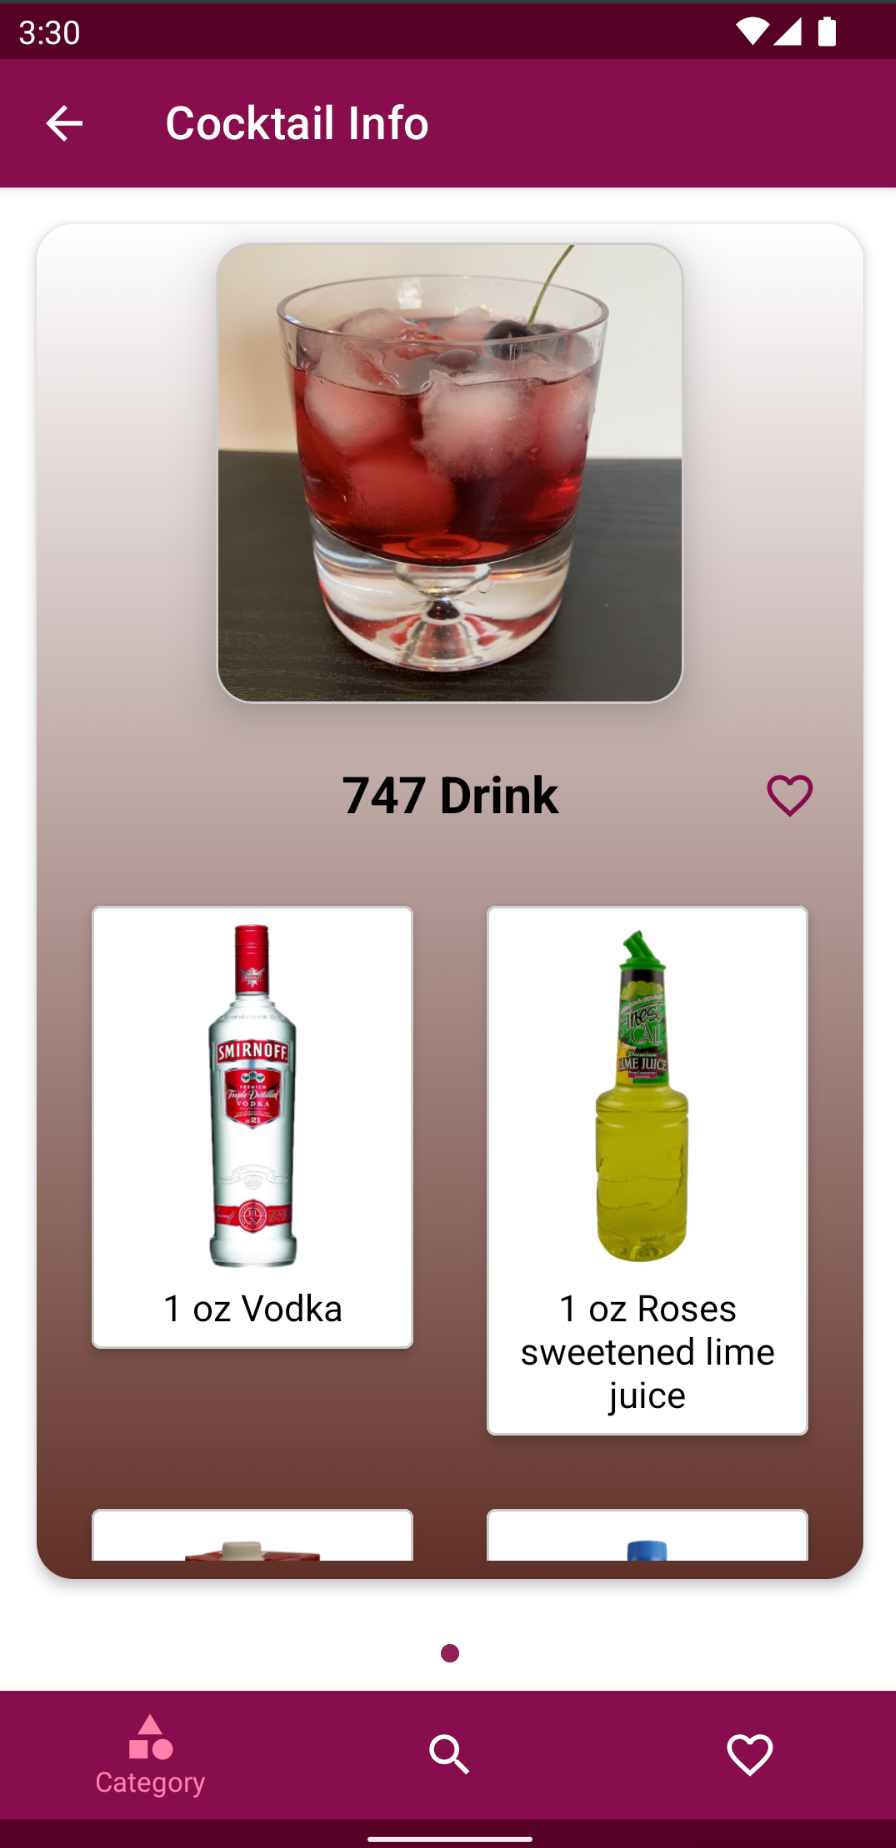
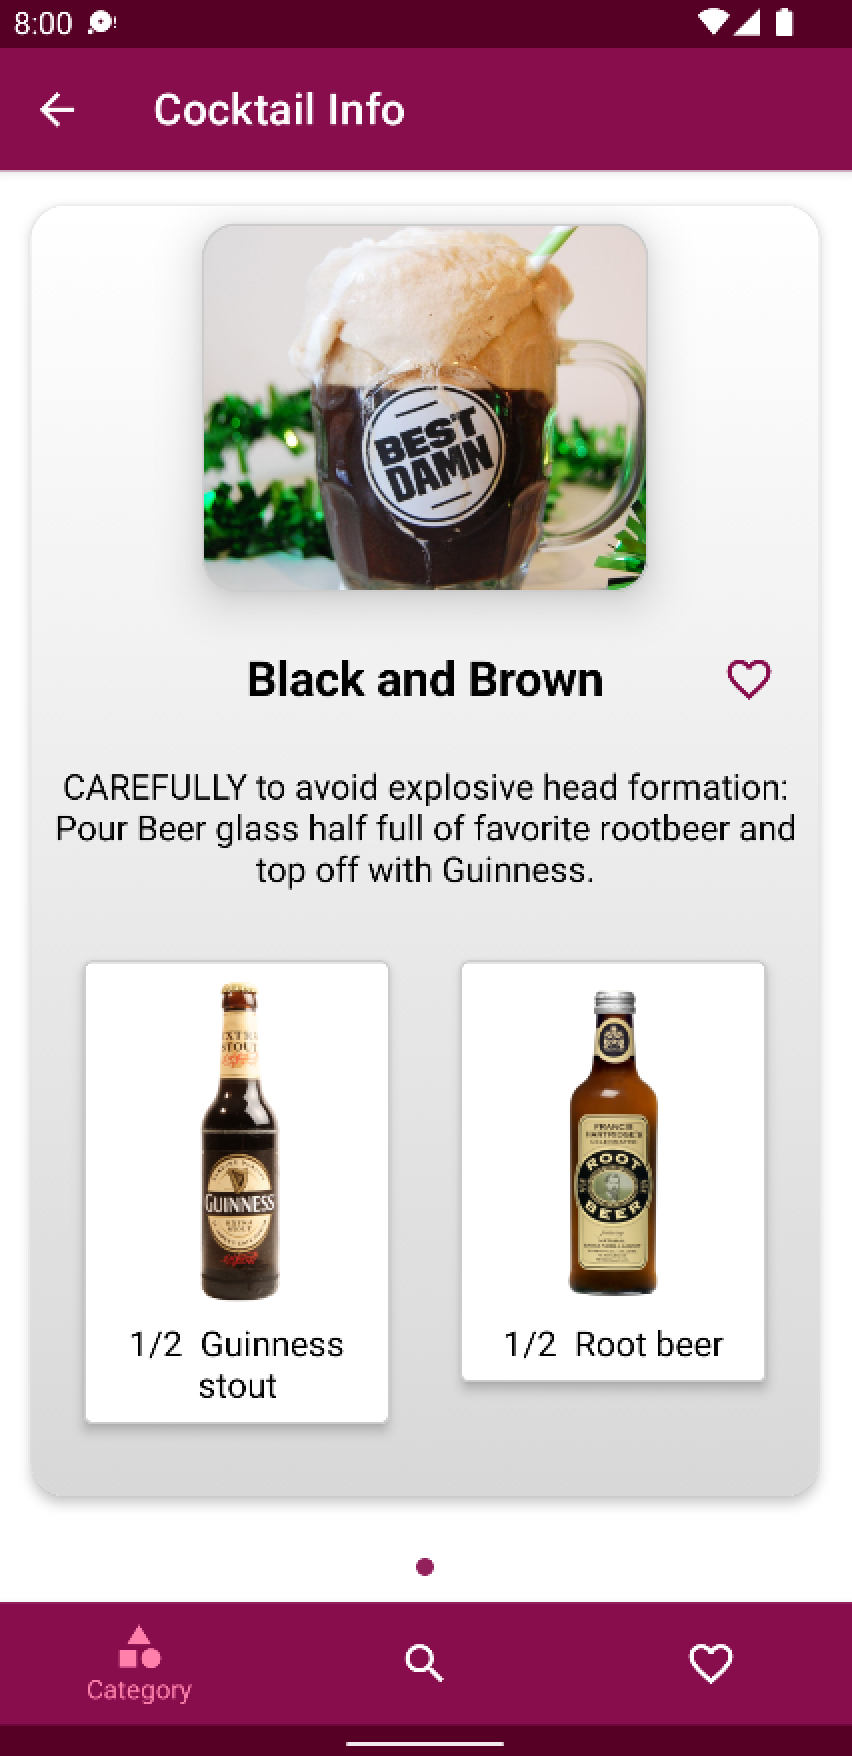
sperate domain & data

diff --git a/app/src/main/java/com/beomsu317/cocktailrecipeapp/presentation/search/search_home/SearchHomeViewModel.kt b/app/src/main/java/com/beomsu317/cocktailrecipeapp/presentation/search/search_home/SearchHomeViewModel.kt
@@ -1,7 +1,9 @@
 package com.beomsu317.cocktailrecipeapp.presentation.search.search_home
 
 import androidx.compose.runtime.State
+import androidx.compose.runtime.getValue
 import androidx.compose.runtime.mutableStateOf
+import androidx.compose.runtime.setValue
 import androidx.lifecycle.ViewModel
 import androidx.lifecycle.viewModelScope
 import com.beomsu317.cocktailrecipeapp.common.Resource
@@ -21,8 +23,7 @@ class SearchHomeViewModel @Inject constructor(
     private val cocktailUseCases: CocktailUseCases,
 ) : ViewModel() {
 
-    private val _state = mutableStateOf(SearchHomeState())
-    val state: State<SearchHomeState> = _state
+    var state by mutableStateOf(SearchHomeState())
 
     private val _oneTimeEventChannel = Channel<OneTimeEvent>()
     val oneTimeEventFlow = _oneTimeEventChannel.receiveAsFlow()
@@ -40,7 +41,7 @@ class SearchHomeViewModel @Inject constructor(
             }
             is SearchHomeEvent.ToggleCocktailInfo -> {
                 viewModelScope.launch {
-                    if (_state.value.ids.contains(event.cocktailInfo.idDrink)) {
+                    if (state.ids.contains(event.cocktailInfo.idDrink)) {
                         cocktailUseCases.deleteCocktailInfoByIdUseCase(event.cocktailInfo.idDrink)
                     } else {
                         cocktailUseCases.insertCocktailInfoUseCase(event.cocktailInfo)
@@ -52,7 +53,7 @@ class SearchHomeViewModel @Inject constructor(
     }
 
     private fun getCocktails(name: String) {
-        _state.value = _state.value.copy(cocktails = emptyList(), name = name)
+        state = state.copy(cocktails = emptyList(), name = name)
 
         if (name.isEmpty()) {
             viewModelScope.launch {
@@ -64,7 +65,7 @@ class SearchHomeViewModel @Inject constructor(
         cocktailUseCases.getCocktailInfosByNameUseCase(name).onEach { result ->
             when (result) {
                 is Resource.Success -> {
-                    _state.value = _state.value.copy(
+                    state = state.copy(
                         isLoading = false,
                         cocktails = result.data ?: emptyList()
                     )
@@ -75,10 +76,10 @@ class SearchHomeViewModel @Inject constructor(
                             result.message ?: "An unexpected error occured"
                         )
                     )
-                    _state.value = _state.value.copy(isLoading = false)
+                    state = state.copy(isLoading = false)
                 }
                 is Resource.Loading -> {
-                    _state.value = _state.value.copy(isLoading = true)
+                    state = state.copy(isLoading = true)
                 }
             }
         }.launchIn(viewModelScope)
@@ -87,7 +88,7 @@ class SearchHomeViewModel @Inject constructor(
     private fun refreshIds() {
         getIdsJob?.cancel()
         getIdsJob = cocktailUseCases.getCocktailInfoIdsUseCase().onEach { ids ->
-            _state.value = _state.value.copy(ids = ids)
+            state = state.copy(ids = ids)
         }.launchIn(viewModelScope)
     }
 }

diff --git a/app/src/main/java/com/beomsu317/cocktailrecipeapp/presentation/category/category_list/CategoryListViewModel.kt b/app/src/main/java/com/beomsu317/cocktailrecipeapp/presentation/category/category_list/CategoryListViewModel.kt
@@ -1,7 +1,9 @@
 package com.beomsu317.cocktailrecipeapp.presentation.category.category_list
 
 import androidx.compose.runtime.State
+import androidx.compose.runtime.getValue
 import androidx.compose.runtime.mutableStateOf
+import androidx.compose.runtime.setValue
 import androidx.lifecycle.ViewModel
 import androidx.lifecycle.viewModelScope
 import com.beomsu317.cocktailrecipeapp.common.Resource
@@ -19,8 +21,8 @@ class CategoryListViewModel @Inject constructor(
     private val cocktailUseCases: CocktailUseCases
 ) : ViewModel() {
 
-    private val _state = mutableStateOf(CategoryListState())
-    val state: State<CategoryListState> = _state
+    var state by mutableStateOf(CategoryListState())
+        private set
 
     private val _oneTimeEventChannel = Channel<OneTimeEvent>()
     val oneTimeEventFlow = _oneTimeEventChannel.receiveAsFlow()
@@ -33,7 +35,7 @@ class CategoryListViewModel @Inject constructor(
         cocktailUseCases.getCategoriesUseCase().onEach { result ->
             when (result) {
                 is Resource.Success -> {
-                    _state.value = _state.value.copy(
+                    state = state.copy(
                         categories = result?.data ?: emptyList(),
                         isLoading = false
                     )
@@ -44,10 +46,10 @@ class CategoryListViewModel @Inject constructor(
                             result?.message ?: "An unexpected error occured"
                         )
                     )
-                    _state.value = _state.value.copy(isLoading = false)
+                    state = state.copy(isLoading = false)
                 }
                 is Resource.Loading -> {
-                    _state.value = _state.value.copy(isLoading = true)
+                    state = state.copy(isLoading = true)
                 }
             }
         }.launchIn(viewModelScope)

diff --git a/app/src/main/java/com/beomsu317/cocktailrecipeapp/data/repository/CocktailRepositoryImpl.kt b/app/src/main/java/com/beomsu317/cocktailrecipeapp/data/repository/CocktailRepositoryImpl.kt
@@ -2,15 +2,20 @@ package com.beomsu317.cocktailrecipeapp.data.repository
 
 import com.beomsu317.cocktailrecipeapp.data.local.dao.CocktailDao
 import com.beomsu317.cocktailrecipeapp.data.local.entity.CocktailInfoEntity
+import com.beomsu317.cocktailrecipeapp.data.local.entity.toCocktailInfo
 import com.beomsu317.cocktailrecipeapp.data.remote.TheCocktailDbApi
 import com.beomsu317.cocktailrecipeapp.data.remote.dto.*
+import com.beomsu317.cocktailrecipeapp.domain.model.CocktailInfo
+import com.beomsu317.cocktailrecipeapp.domain.model.toCocktailInfoEntity
 import com.beomsu317.cocktailrecipeapp.domain.repositroy.CocktailRepository
 import kotlinx.coroutines.flow.Flow
+import kotlinx.coroutines.flow.map
+import kotlinx.coroutines.flow.onEach
 
 class CocktailRepositoryImpl(
     private val api: TheCocktailDbApi,
     private val dao: CocktailDao
-): CocktailRepository {
+) : CocktailRepository {
 
     override suspend fun getCategories(): CategoriesDto {
         return api.getListByCategories()
@@ -28,8 +33,8 @@ class CocktailRepositoryImpl(
         return api.getIngredients(name)
     }
 
-    override suspend fun insertCocktailInfo(cocktailInfoEntity: CocktailInfoEntity) {
-        dao.insertCocktailInfo(cocktailInfoEntity)
+    override suspend fun insertCocktailInfo(cocktailInfo: CocktailInfo) {
+        dao.insertCocktailInfo(cocktailInfo.toCocktailInfoEntity())
     }
 
     override suspend fun deleteCocktailInfoById(id: Int) {
@@ -40,7 +45,7 @@ class CocktailRepositoryImpl(
         return dao.getCocktailInfoIds()
     }
 
-    override fun getMyCocktailsInfoEntities(): Flow<List<CocktailInfoEntity>> {
-        return dao.getMyCocktailinfo()
+    override fun getMyCocktailsInfo(): Flow<List<CocktailInfo>> {
+        return dao.getMyCocktailinfo().map { it.map { it.toCocktailInfo() } }
     }
 }

diff --git a/app/src/main/java/com/beomsu317/cocktailrecipeapp/domain/repositroy/CocktailRepository.kt b/app/src/main/java/com/beomsu317/cocktailrecipeapp/domain/repositroy/CocktailRepository.kt
@@ -9,6 +9,7 @@ import com.beomsu317.cocktailrecipeapp.data.remote.dto.CategoriesDto
 import com.beomsu317.cocktailrecipeapp.data.remote.dto.CocktailInfosDto
 import com.beomsu317.cocktailrecipeapp.data.remote.dto.CocktailsDto
 import com.beomsu317.cocktailrecipeapp.data.remote.dto.IngredientsDto
+import com.beomsu317.cocktailrecipeapp.domain.model.CocktailInfo
 import kotlinx.coroutines.flow.Flow
 
 interface CocktailRepository {
@@ -21,11 +22,11 @@ interface CocktailRepository {
 
     suspend fun getIngredients(name: String): IngredientsDto
 
-    suspend fun insertCocktailInfo(cocktailInfoEntity: CocktailInfoEntity)
+    suspend fun insertCocktailInfo(cocktailInfo: CocktailInfo)
 
     suspend fun deleteCocktailInfoById(id: Int)
 
     fun getCocktailInfoIds(): Flow<List<Int>>
 
-    fun getMyCocktailsInfoEntities(): Flow<List<CocktailInfoEntity>>
+    fun getMyCocktailsInfo(): Flow<List<CocktailInfo>>
 }

diff --git a/app/src/main/java/com/beomsu317/cocktailrecipeapp/domain/use_case/GetMyCocktailsInfoUseCase.kt b/app/src/main/java/com/beomsu317/cocktailrecipeapp/domain/use_case/GetMyCocktailsInfoUseCase.kt
@@ -1,22 +1,15 @@
 package com.beomsu317.cocktailrecipeapp.domain.use_case
 
-import com.beomsu317.cocktailrecipeapp.common.Resource
-import com.beomsu317.cocktailrecipeapp.data.local.entity.toCocktailInfo
 import com.beomsu317.cocktailrecipeapp.domain.model.CocktailInfo
 import com.beomsu317.cocktailrecipeapp.domain.repositroy.CocktailRepository
 import kotlinx.coroutines.flow.Flow
-import kotlinx.coroutines.flow.flow
 import kotlinx.coroutines.flow.map
-import kotlinx.coroutines.flow.onEach
-import java.io.IOException
 import javax.inject.Inject
 
 class GetMyCocktailsInfoUseCase @Inject constructor(
     private val repository: CocktailRepository
 ) {
     operator fun invoke(): Flow<List<CocktailInfo>> {
-        return repository.getMyCocktailsInfoEntities().map {
-            it.map { it.toCocktailInfo() }
-        }
+        return repository.getMyCocktailsInfo()
     }
 }

diff --git a/app/src/main/java/com/beomsu317/cocktailrecipeapp/presentation/util/screens/cocktails_info/components/CocktailsInfoPagerItem.kt b/app/src/main/java/com/beomsu317/cocktailrecipeapp/presentation/util/screens/cocktails_info/components/CocktailsInfoPagerItem.kt
@@ -155,7 +155,14 @@ fun CocktailsInfoPagerItem(
                         )
                     }
                 }
-                Spacer(modifier = Modifier.height(8.dp))
+                Spacer(modifier = Modifier.height(16.dp))
+                Text(
+                    text = cocktailInfo.strInstructions.toString(),
+                    style = MaterialTheme.typography.body1,
+                    textAlign = TextAlign.Center,
+                    color = Color.Black
+                )
+                Spacer(modifier = Modifier.height(16.dp))
                 LazyVerticalGrid(
                     columns = GridCells.Fixed(2),
                     modifier = Modifier

diff --git a/app/src/main/java/com/beomsu317/cocktailrecipeapp/domain/model/CocktailInfo.kt b/app/src/main/java/com/beomsu317/cocktailrecipeapp/domain/model/CocktailInfo.kt
@@ -14,7 +14,6 @@ data class CocktailInfo(
     val strDrinkThumb: String = "",
     val ingredients: List<Pair<String, String?>> = emptyList(),
     val strInstructions: String? = "",
-    val strImageSource: String? = "",
 )
 
 fun CocktailInfo.toCocktailInfoEntity(): CocktailInfoEntity {
@@ -28,7 +27,6 @@ fun CocktailInfo.toCocktailInfoEntity(): CocktailInfoEntity {
         strDrinkThumb = strDrinkThumb,
         ingredients = ingredients,
         strInstructions = strInstructions,
-        strImageSource = strImageSource
     )
 }
 

diff --git a/app/src/main/java/com/beomsu317/cocktailrecipeapp/data/local/entity/CocktailInfoEntity.kt b/app/src/main/java/com/beomsu317/cocktailrecipeapp/data/local/entity/CocktailInfoEntity.kt
@@ -15,7 +15,6 @@ data class CocktailInfoEntity(
     val strDrinkThumb: String,
     val ingredients: List<Pair<String, String?>>,
     val strInstructions: String?,
-    val strImageSource: String?,
 )
 
 fun CocktailInfoEntity.toCocktailInfo(): CocktailInfo {
@@ -29,6 +28,5 @@ fun CocktailInfoEntity.toCocktailInfo(): CocktailInfo {
         strDrinkThumb = strDrinkThumb,
         ingredients = ingredients,
         strInstructions = strInstructions,
-        strImageSource = strImageSource
     )
 }

diff --git a/app/src/main/java/com/beomsu317/cocktailrecipeapp/presentation/search/search_home/SearchHomeScreen.kt b/app/src/main/java/com/beomsu317/cocktailrecipeapp/presentation/search/search_home/SearchHomeScreen.kt
@@ -30,7 +30,7 @@ fun SearchHomeScreen(
     onCocktailClick: (CocktailInfo) -> Unit,
     viewModel: SearchHomeViewModel = hiltViewModel()
 ) {
-    val state = viewModel.state.value
+    val state = viewModel.state
     val oneTimeEventFlow = viewModel.oneTimeEventFlow
     LaunchedEffect(key1 = oneTimeEventFlow) {
         oneTimeEventFlow.collectLatest { oneTimeEvent ->

diff --git a/app/src/main/java/com/beomsu317/cocktailrecipeapp/data/remote/dto/CocktailInfosDto.kt b/app/src/main/java/com/beomsu317/cocktailrecipeapp/data/remote/dto/CocktailInfosDto.kt
@@ -72,7 +72,6 @@ fun CocktailInfosDto.toCocktailInfos(): List<CocktailInfo> {
                 strDrinkThumb = drink.strDrinkThumb,
                 ingredients = ingredients,
                 strInstructions = drink.strInstructions,
-                strImageSource = drink.strImageSource
             )
         }
     } ?: emptyList()

diff --git a/app/src/main/java/com/beomsu317/cocktailrecipeapp/presentation/category/category_list/CategoryListScreen.kt b/app/src/main/java/com/beomsu317/cocktailrecipeapp/presentation/category/category_list/CategoryListScreen.kt
@@ -21,7 +21,7 @@ fun CategoryListScreen(
     viewModel: CategoryListViewModel = hiltViewModel(),
     onCategoryClick: (String) -> Unit
 ) {
-    val state = viewModel.state.value
+    val state = viewModel.state
     val oneTimeEventFlow = viewModel.oneTimeEventFlow
 
     LaunchedEffect(key1 = oneTimeEventFlow) {

diff --git a/app/src/main/java/com/beomsu317/cocktailrecipeapp/domain/use_case/InsertCocktailInfoUseCase.kt b/app/src/main/java/com/beomsu317/cocktailrecipeapp/domain/use_case/InsertCocktailInfoUseCase.kt
@@ -11,6 +11,6 @@ class InsertCocktailInfoUseCase @Inject constructor(
 ) {
 
     suspend operator fun invoke(cocktailInfo: CocktailInfo) {
-        repository.insertCocktailInfo(cocktailInfo.toCocktailInfoEntity())
+        repository.insertCocktailInfo(cocktailInfo)
     }
 }
